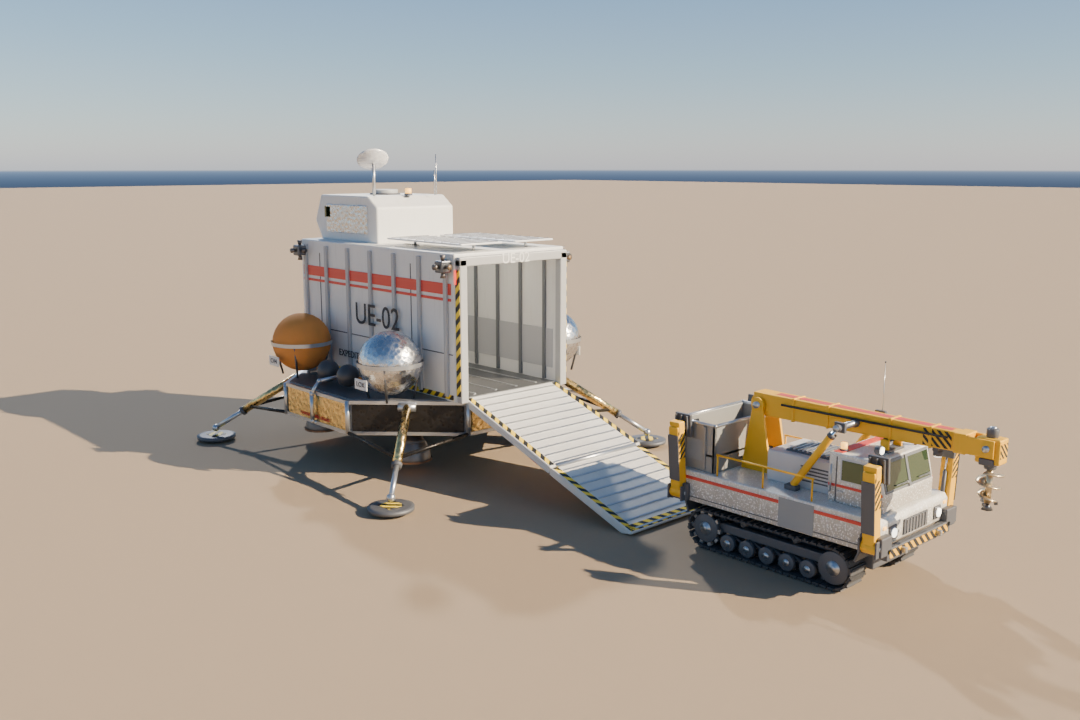
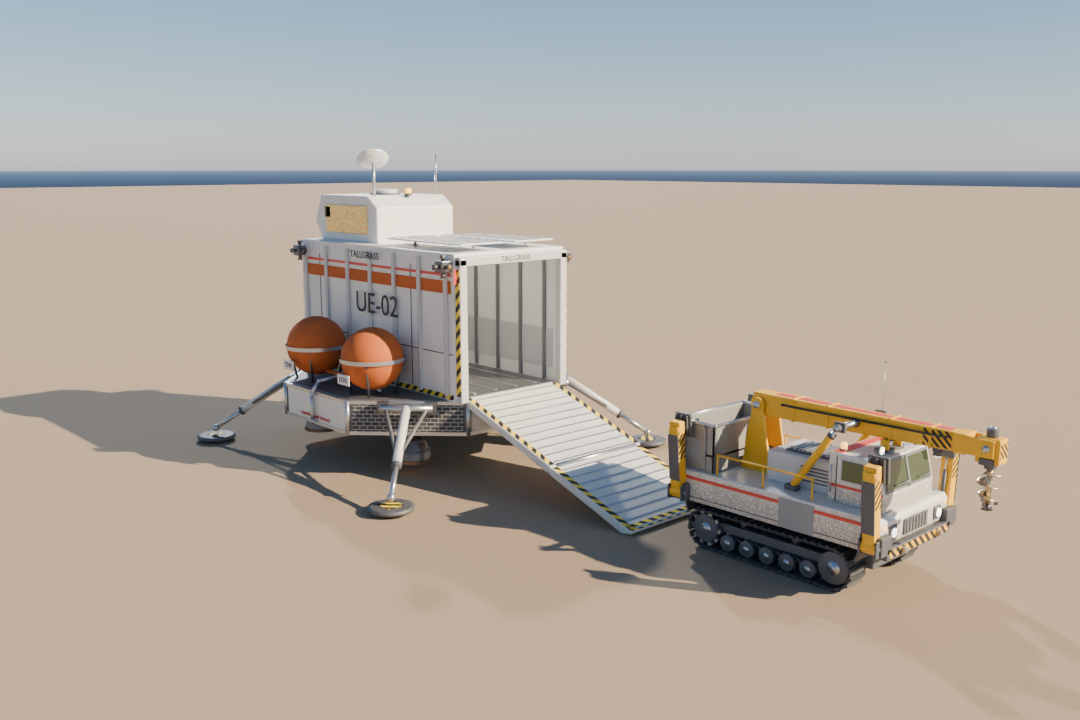
Pre-warp drop ship page: the owner's decision, new palette renders, flight + glb checks, questions answered

diff --git a/docs/mockups/prewarp-dropship/index.html b/docs/mockups/prewarp-dropship/index.html
@@ -83,22 +83,45 @@ ol.qs { margin: 0; padding-left: 22px; display: grid; gap: 12px; max-width: 80ch
 ol.qs li::marker { font: 700 16px var(--display); color: var(--accent); }
 ol.qs b { font-weight: 600; }
 footer { border-top: 1px solid var(--rule); padding-top: 20px; font-size: 14px; color: var(--dim); display: grid; gap: 6px; }
+.decided { border: 1px solid var(--good); background: var(--good-soft); border-radius: 8px; padding: 14px 16px; display: grid; gap: 10px; max-width: 86ch; }
+.decided h3 { color: var(--good); }
+.decided ul { margin: 0; padding-left: 18px; display: grid; gap: 6px; }
+.chip.ok { border-color: var(--good); color: var(--good); background: var(--good-soft); }
+ol.qs .ans { display: block; margin-top: 4px; color: var(--good); }
+ol.qs .ans::before { content: "Answered: "; font-weight: 600; }
+.quad { display: grid; grid-template-columns: minmax(0, 1fr) minmax(0, 1fr); gap: 12px; }
+@media (max-width: 760px) { .quad { grid-template-columns: minmax(0, 1fr); } }
 </style>
 
 <div class="wrap">
   <header>
-    <div class="eyebrow">Dawn of Warp · 2063–2150 · Mockup</div>
+    <div class="eyebrow">Dawn of Warp · 2063–2150 · Decided 2026-11-10</div>
     <h1>Pre-warp Drop Ship</h1>
     <blockquote>“On the pre-warp, the drop ships [shouldn't] have nacelles. Make them look less enterprise / warp era. Show me mockup.”</blockquote>
-    <p class="lede">Three original cargo landers for the human expedition from Earth: chemical rockets, fusion power on the ground, no shields or transporters, cranes and human crews. Each does Halyard 07's job (one mining crawler or rover per trip, ramp, four legs, rocket landing) with Earth-industrial looks: white and grey panels, orange foam insulation, gold and black foil blankets, exposed piping, stencilled hull text, yellow/black warning stripes and the player colour as the red band.</p>
-    <div class="chips"><span class="chip">A · Lander</span><span class="chip">B · Hopper</span><span class="chip">C · Freighter</span><span class="chip">Mockup only · no game changes yet</span></div>
+    <p class="lede">Three original cargo landers for the human expedition from Earth: chemical rockets, fusion power on the ground, no shields or transporters, cranes and human crews. Each does Halyard 07's job (one mining crawler or rover per trip, ramp, four legs, rocket landing). After the first round the owner picked the look: a white hull, the Space Shuttle external tank's rust orange as the main accent (tanks, foam, stripes), black thermal tiles where the heat is, light grey details, and the player colour as a thin line.</p>
+    <div class="chips"><span class="chip">A · Lander</span><span class="chip">B · Hopper</span><span class="chip">C · Freighter</span><span class="chip ok">Decided: a mix, random per orbiting ship</span><span class="chip ok">In the game</span></div>
   </header>
 
   <section>
-    <h2><span class="tag">Lineup</span> Today's Halyard and the three options</h2>
+    <h2><span class="tag">Decided</span> What the owner chose</h2>
+    <blockquote>“Go with a mix … random. Could be any of them per orbiting ship.” · “White, Space Shuttle red/orange, hull names random like before. Legs should fold.”</blockquote>
+    <div class="decided">
+      <h3>Built</h3>
+      <ul>
+        <li><b>All three ships, mixed:</b> in a Dawn of Warp match each player's orbiting ship carries one of A, B or C, picked at random per player from the map seed and the player's slot, so it stays the same for the whole game and after a reload. Every drop ship of that player uses it: vehicle deliveries, the three ships of the first landing and outpost drops. Other eras keep Halyard 07.</li>
+        <li><b>Colours:</b> white panels, rust orange (#C8632A family) on the tanks, foam lines and a broad stripe, black tiles under the engines, on B's skirt and nose cap and on C's belly and nose, light grey details. Gold foil stays only on A's engine mounts and cab blankets. The player colour is a thin “Owner” line.</li>
+        <li><b>Hull names random, like before:</b> every pre-warp ship draws a name from a list of 41 original Earth-expedition names (TALLGRASS, IRONWOOD, SOUTHWIND, BLUE HERON …) and a number like UE-14, per ship and never the same twice for a player. The achievement drop ship name still overrides it.</li>
+        <li><b>Legs fold:</b> A's legs fold 124° straight up beside its tanks (moved off the diagonals to make room), B's 130° straight up the barrel over dark leg wells, both with the pads turned flat, contact face out. C folds like Halyard.</li>
+        <li><b>A and B's two-piece ramps:</b> the tip unfolds after the main ramp and folds first when it closes; the unit drives the full length. B climbs out straight up instead of pitching over.</li>
+      </ul>
+    </div>
+  </section>
+
+  <section>
+    <h2><span class="tag">Lineup</span> Halyard and the three pre-warp ships</h2>
     <figure>
-      <img src="img/lineup.png" alt="Front three-quarter lineup on sand: Halyard 07 with its nacelle pods on the left, then the octagonal Lander A with orange and silver spherical tanks, the tall round Hopper B, and the low Freighter C with orange tanks on its back and four engine pods; a survey rover and the mining crawler stand between them for scale." width="1080" height="340" loading="lazy">
-      <figcaption><b>Left to right:</b> Halyard 07 (today, 12.6 long, 5.6 high), A Lander, B Hopper, C Freighter. A Mk II rover and the mining crawler for scale.</figcaption>
+      <img src="img/lineup.png" alt="Front three-quarter lineup on sand: Halyard 07 with its nacelle pods on the left, then the octagonal white Lander A with four orange spherical tanks, the tall white and orange Hopper B, and the low white Freighter C with orange tanks on its back and four engine pods; a survey rover and the mining crawler stand between them for scale." width="1080" height="340" loading="lazy">
+      <figcaption><b>Left to right:</b> Halyard 07 (every other era, 12.6 long, 5.6 high), A Lander, B Hopper, C Freighter. A Mk II rover and the mining crawler for scale.</figcaption>
     </figure>
     <figure>
       <img src="img/lineup-game.png" alt="The same four ships seen from above at the game's landing camera angle, each centred on a planet hex: Halyard, A, B, C from left to right." width="960" height="360" loading="lazy">
@@ -106,14 +129,14 @@ footer { border-top: 1px solid var(--rule); padding-top: 20px; font-size: 14px; 
     </figure>
     <figure>
       <img class="native" src="img/lineup-game-1x.png" alt="The landing-camera lineup at the size it appears in the game at 1280 by 720: the ships are small but each silhouette still differs." width="545" height="204" loading="lazy">
-      <figcaption><b>Actual size</b> at 1280×720 (camera FOV 45°): a ship is about 60 px long. Halyard reads by its blue strips, A by its box and four tank dots, B as a white disc, C by its two orange tanks.</figcaption>
+      <figcaption><b>Actual size</b> at 1280×720 (camera FOV 45°): a ship is about 60 px long. Halyard reads by its blue strips, A by its box and four orange tank dots, B as a white disc ringed in orange, C by its two orange tanks.</figcaption>
     </figure>
   </section>
 
   <!-- ---------------------------------------------------------------- A -->
   <section class="opt" id="a">
-    <h2><span class="tag">A</span> Lander <small>“Expedition Carrier 2” · UE-02</small></h2>
-    <p class="pitch">A squat descent stage in gold and black foil carries four exposed spherical tanks (orange-foam methane, silver oxygen), a boxy pressurised cargo module and a faceted two-window crew cab. Four splayed truss legs with dish pads, an engine bell under each corner, RCS quads on the module corners and a folding two-piece ramp: Apollo descent stage meets a modern heavy cargo lander.</p>
+    <h2><span class="tag">A</span> Lander <small>sample hull TALLGRASS · UE-02</small></h2>
+    <p class="pitch">A squat octagonal descent stage, white panels with black-tile bays over the four corner engines, carries four orange-foam spherical tanks on its side strips, a boxy white cargo module with an orange stripe and a faceted two-window crew cab. Four A-frame legs with dish pads, RCS quads on the module corners and a folding two-piece ramp: Apollo descent stage meets a modern heavy cargo lander.</p>
     <div class="shots">
       <figure>
         <img src="img/a-hero.png" alt="Lander A landed with its two-piece ramp unfolded to the ground and the mining crawler driven off the end." width="1080" height="720" loading="lazy">
@@ -130,37 +153,49 @@ footer { border-top: 1px solid var(--rule); padding-top: 20px; font-size: 14px; 
         </figure>
       </div>
     </div>
+    <div class="quad">
+      <figure>
+        <img src="img/a-flight.png" alt="Lander A in flight with its four legs folded straight up beside the tanks, pads standing flat." width="720" height="480" loading="lazy">
+        <figcaption><b>Legs folded</b> (the climb-out): 123.6° straight up beside the tanks, pads turned flat.</figcaption>
+      </figure>
+      <figure>
+        <img src="img/a-glb.png" alt="The exported game model of Lander A twice: landed with the ramp and its tip opened through the model's own pivots, and hovering with the legs folded." width="720" height="480" loading="lazy">
+        <figcaption><b>The game glb</b> posed through its own pivots: ramp 109.6° + tip 180°, and legs folded.</figcaption>
+      </figure>
+    </div>
     <div class="cards">
       <div class="card">
-        <h3>Spec</h3>
+        <h3>Spec (in the game)</h3>
         <dl class="spec">
           <dt>Size</dt><dd>8.4 across the stage, 11.8 over the pads, 8.0 to the cab roof (9.6 to the antennas)</dd>
-          <dt>Bay</dt><dd>3.6 wide × ~7.5 long × 3.8 high, deck 2.4 up</dd>
-          <dt>Ramp</dt><dd>two pieces, 3.75 + 3.1, toe on the ground at the game's 109.6°</dd>
-          <dt>Engines</dt><dd>4 bells under the corners (exit 0.44 above ground), RCS on the module corners</dd>
+          <dt>Bay</dt><dd>3.6 wide × ~7.5 long × 3.8 high, deck 2.43 up</dd>
+          <dt>Ramp</dt><dd>hinge (0, 2.43, 4.1); 3.75 + tip 3.08 at 109.6°, toe 10.53 aft</dd>
+          <dt>Legs</dt><dd>pads (±5.02, ±5.02); fold 123.6°, pads turn back 33.6°</dd>
+          <dt>Engines</dt><dd>4 bells (exit 0.44 up, r 0.55) at (±2.51, ±2.51), RCS quads on the module corners</dd>
+          <dt>Game glb</dt><dd>dropship_prewarp_a.glb · 35 nodes · 42.8k tris · 2.9 MB</dd>
         </dl>
       </div>
       <div class="card pro">
         <h3>For the game</h3>
         <ul>
-          <li>Says “space age, Earth” at a glance: gold foil, spherical tanks, Apollo legs. Nothing about it is Starfleet.</li>
-          <li>Four corner bells are exactly what <code>RocketPlume</code> already draws: four flames, one per corner.</li>
+          <li>Says “space age, Earth” at a glance: spherical tanks, Apollo legs. Nothing about it is Starfleet.</li>
+          <li>Four corner bells are exactly what <code>RocketPlume</code> draws: four flames, one per corner.</li>
           <li>Feels right for the colony landing: lowered on its plumes, crews and cranes unload it.</li>
         </ul>
       </div>
       <div class="card con">
-        <h3>Watch out</h3>
+        <h3>Watch out (resolved)</h3>
         <ul>
-          <li>From above it is a white box with dots: close to a prefab building at a glance (the tanks and the hex of legs help).</li>
-          <li>The deck is 2.4 up, so the ramp has to fold out in two pieces: a new <code>RampTip</code> step in <code>DropShipView</code>, and the drive-off path gets twice as long.</li>
-          <li>Apollo legs never retract; folding them (the game folds every leg) looks odd on this shape. Better: no fold for A.</li>
+          <li>From above it is a white box with dots: the four orange tanks and the stripe now set it apart from the white buildings.</li>
+          <li>The two-piece ramp got its <code>RampTip</code> step in <code>DropShipView</code>: the tip unfolds after the main ramp, the drive-off runs its full length (~+1 s).</li>
+          <li>Apollo legs never retract: rebuilt as A-frames that swing as one piece, with the tanks moved clear of the diagonals, so they fold cleanly.</li>
         </ul>
       </div>
       <div class="card need">
         <h3>Crawler fit</h3>
         <ul>
           <li>Crawler 5.6 × 2.7 × 3.1 fits with 0.45 each side and 0.7 headroom.</li>
-          <li>The drive down is ~7 long at 19.6°, from 2.4 up: a slightly slower unload (about +1 s).</li>
+          <li>The drive down is ~7 long at 19.6°, from 2.43 up.</li>
         </ul>
       </div>
     </div>
@@ -168,8 +203,8 @@ footer { border-top: 1px solid var(--rule); padding-top: 20px; font-size: 14px; 
 
   <!-- ---------------------------------------------------------------- B -->
   <section class="opt" id="b">
-    <h2><span class="tag">B</span> Hopper <small>“Surface Lifter 5” · UE-05</small></h2>
-    <p class="pitch">An upright reusable rocket lander, 7.2 wide and 13.3 tall: a stainless cargo barrel over a dark tiled skirt, a white tank section with a row of crew windows, grid fins and a blunt nose. Four carbon legs deploy from the base, a cluster of four engines sits under the heat shield, and a square door housing on one side drops a two-piece ramp to the ground.</p>
+    <h2><span class="tag">B</span> Hopper <small>sample hull SOUTHWIND · UE-05</small></h2>
+    <p class="pitch">An upright reusable rocket lander, 7.2 wide and 13.3 tall: a white cargo barrel over a black tiled skirt, an orange tank section with the thin player-colour line under it, a white crew level with a row of windows, grid fins and a black-tiled nose cap. Four carbon A-frame legs hinge low on the skirt, a cluster of four engines sits under the heat shield, and a square door housing on one side drops a two-piece ramp to the ground.</p>
     <div class="shots">
       <figure>
         <img src="img/b-hero.png" alt="Hopper B landed, its side door open as a long ramp, the mining crawler on the ground beyond it." width="1080" height="720" loading="lazy">
@@ -177,8 +212,8 @@ footer { border-top: 1px solid var(--rule); padding-top: 20px; font-size: 14px; 
       </figure>
       <div class="side">
         <figure>
-          <img src="img/b-game.png" alt="Hopper B from the game camera: mostly its white domed top and the door housing." width="720" height="480" loading="lazy">
-          <figcaption><b>Game camera:</b> the dome dominates.</figcaption>
+          <img src="img/b-game.png" alt="Hopper B from the game camera: its white domed top ringed in orange and the door housing." width="720" height="480" loading="lazy">
+          <figcaption><b>Game camera:</b> the dome dominates; the orange band reads.</figcaption>
         </figure>
         <figure>
           <img src="img/b-descent.png" alt="Hopper B descending on a single merged column of flame from its four clustered engines." width="720" height="480" loading="lazy">
@@ -186,14 +221,27 @@ footer { border-top: 1px solid var(--rule); padding-top: 20px; font-size: 14px; 
         </figure>
       </div>
     </div>
+    <div class="quad">
+      <figure>
+        <img src="img/b-flight.png" alt="Hopper B in flight with its legs folded flat up the barrel over dark leg wells." width="720" height="480" loading="lazy">
+        <figcaption><b>Legs folded:</b> 129.8° straight up the barrel, pads flat against it.</figcaption>
+      </figure>
+      <figure>
+        <img src="img/b-glb.png" alt="The exported game model of Hopper B twice: landed with its door ramp and tip open, and hovering with the legs folded." width="720" height="480" loading="lazy">
+        <figcaption><b>The game glb</b> posed through its own pivots.</figcaption>
+      </figure>
+    </div>
     <div class="cards">
       <div class="card">
-        <h3>Spec</h3>
+        <h3>Spec (in the game)</h3>
         <dl class="spec">
           <dt>Size</dt><dd>7.2 wide, 11.0 over the pads, 13.3 high (14 to the antennas)</dd>
-          <dt>Bay</dt><dd>3.6 wide × 6.7 deep × 3.9 high, floor 2.6 up</dd>
-          <dt>Ramp</dt><dd>the door: two pieces, 3.8 + 3.5, toe on the ground at 109.6°</dd>
-          <dt>Engines</dt><dd>4 bells in a cluster under the base, RCS quads high on the barrel (aft pair either side of the door)</dd>
+          <dt>Bay</dt><dd>3.6 wide × 6.7 deep × 3.9 high, floor 2.58 up</dd>
+          <dt>Ramp</dt><dd>hinge (0, 2.58, 3.98); the door 3.82 + tip 3.47 at 109.6°, toe 10.85 aft</dd>
+          <dt>Legs</dt><dd>pads (±4.49, ±4.49); fold 129.8°, pads turn back 39.8°</dd>
+          <dt>Engines</dt><dd>4 bells in a cluster (exit 0.73 up, r 0.62), RCS quads high on the barrel</dd>
+          <dt>Climb</dt><dd>straight up (no pitch-over, no aft thrusters)</dd>
+          <dt>Game glb</dt><dd>dropship_prewarp_b.glb · 35 nodes · 33.4k tris · 2.6 MB</dd>
         </dl>
       </div>
       <div class="card pro">
@@ -207,11 +255,9 @@ footer { border-top: 1px solid var(--rule); padding-top: 20px; font-size: 14px; 
       <div class="card con">
         <h3>Watch out</h3>
         <ul>
-          <li>From the 55° camera it is a white disc: you see the dome, not which way the door faces.</li>
-          <li>13–14 tall: towers over the Level 1 outpost and may clip the camera at the closest zoom.</li>
-          <li>The climb-out pitches over toward the nose (made for a horizontal ship): needs a straight climb for B.</li>
-          <li>The game's 90° leg fold leaves these legs sticking out at ~45°; B wants ~130° (a per-model angle).</li>
-          <li>Same <code>RampTip</code> step as A.</li>
+          <li>From the 55° camera it is a white disc ringed in orange: you see the dome, not which way the door faces.</li>
+          <li>13–14 tall: towers over the Level 1 outpost and may clip the camera at the closest zoom (check in Godot).</li>
+          <li>Resolved: B climbs straight up, its legs fold ~130° (a per-model angle), and its door ramp has the <code>RampTip</code> step.</li>
         </ul>
       </div>
       <div class="card need">
@@ -226,8 +272,8 @@ footer { border-top: 1px solid var(--rule); padding-top: 20px; font-size: 14px; 
 
   <!-- ---------------------------------------------------------------- C -->
   <section class="opt" id="c">
-    <h2><span class="tag">C</span> Freighter <small>“Cargo Hauler 7” · UE-07</small></h2>
-    <p class="pitch">A horizontal lifting-body cargo hauler of the early 22nd century: blunt tiled nose, ceramic-tile belly, two orange foam tanks strapped along its back and Halyard's rear ramp. Its four vertical landing engines hang exposed on outrigger beams at the corners (chamber, turbopump, bell, gimbal struts) instead of nacelles; utilitarian panels and stencils, no fins.</p>
+    <h2><span class="tag">C</span> Freighter <small>sample hull IRONWOOD · UE-07</small></h2>
+    <p class="pitch">A horizontal lifting-body cargo hauler of the early 22nd century: white hull, black-tiled nose and belly, an orange flash along the flanks over the thin player-colour line, two orange foam tanks strapped along its back and Halyard's rear ramp. Its four vertical landing engines hang exposed on outrigger beams at the corners (chamber, turbopump, bell, gimbal struts) instead of nacelles; utilitarian panels and stencils, no fins.</p>
     <div class="shots">
       <figure>
         <img src="img/c-hero.png" alt="Freighter C landed with its rear ramp down and the mining crawler driven off; engine pods hang from beams at each corner." width="1080" height="720" loading="lazy">
@@ -244,20 +290,32 @@ footer { border-top: 1px solid var(--rule); padding-top: 20px; font-size: 14px; 
         </figure>
       </div>
     </div>
+    <div class="quad">
+      <figure>
+        <img src="img/c-flight.png" alt="Freighter C in flight with its legs folded fore and aft under the outriggers." width="720" height="480" loading="lazy">
+        <figcaption><b>Legs folded</b> as Halyard's: front ones aft, rear ones forward, 90°, pads level.</figcaption>
+      </figure>
+      <figure>
+        <img src="img/c-glb.png" alt="The exported game model of Freighter C twice: landed with its rear ramp open, and hovering with the legs folded." width="720" height="480" loading="lazy">
+        <figcaption><b>The game glb</b> posed through its own pivots.</figcaption>
+      </figure>
+    </div>
     <div class="cards">
       <div class="card">
-        <h3>Spec</h3>
+        <h3>Spec (in the game)</h3>
         <dl class="spec">
           <dt>Size</dt><dd>13.7 long, 12.5 over the engine pods, 6.2 high</dd>
           <dt>Bay</dt><dd>3.6 wide × 8.0 long × 3.35 high, floor 1.25 up (Halyard's)</dd>
-          <dt>Ramp</dt><dd>one piece, 3.32, opens 109.6° (Halyard's numbers)</dd>
-          <dt>Engines</dt><dd>4 bells in exposed pods at the corners, RCS quads at the nose and the aft corners</dd>
+          <dt>Ramp</dt><dd>hinge (0, 1.25, 6.4); one piece, 3.32 at 109.6°, toe 9.53 aft</dd>
+          <dt>Legs</dt><dd>pads (±5.65, -3.5 / 4.55); fold 90° like Halyard</dd>
+          <dt>Engines</dt><dd>4 bells in exposed pods at (±4.15, -3.5 / 4.55), exit 1.25 up, r 0.66; RCS quads at the nose and aft corners</dd>
+          <dt>Game glb</dt><dd>dropship_prewarp_c.glb · 33 nodes · 38.4k tris · 2.7 MB</dd>
         </dl>
       </div>
       <div class="card pro">
         <h3>For the game</h3>
         <ul>
-          <li>Drops straight in: same ramp hinge, length and angle, same leg rests and folds, same bay. Only the glb changes.</li>
+          <li>Almost a glb swap: Halyard's ramp length, angle, leg folds and bay; only the hinge, pads and footprint move.</li>
           <li>Readable from above: two orange tanks and four pods make a clear “H” that no building has, and the ramp end is obvious.</li>
           <li>Plumes come from the four corners, wide apart: the landing looks stable and reads as rockets.</li>
         </ul>
@@ -266,15 +324,15 @@ footer { border-top: 1px solid var(--rule); padding-top: 20px; font-size: 14px; 
         <h3>Watch out</h3>
         <ul>
           <li>Same layout as Halyard (box fuselage, rear ramp), so it's the least different of the three.</li>
-          <li>The exposed engines are detailed: the joined game glb will be heavier than Halyard's (~35 nodes) unless they are simplified.</li>
-          <li>Engine pods widen the footprint to 12.5: the landing-spot search (11 from buildings) may need +1.</li>
+          <li>The exposed engines are detailed, but the joined game glb came out at 33 nodes, like Halyard.</li>
+          <li>Engine pods widen the footprint to 12.5: the landing-spot search uses C's own footprint points.</li>
         </ul>
       </div>
       <div class="card need">
         <h3>Crawler fit</h3>
         <ul>
           <li>Halyard's bay with 0.8 more length: the crawler fits with 0.45 each side and 0.25 headroom, like today.</li>
-          <li>Unload timing and path unchanged.</li>
+          <li>Unload timing and path as Halyard's.</li>
         </ul>
       </div>
     </div>
@@ -284,31 +342,31 @@ footer { border-top: 1px solid var(--rule); padding-top: 20px; font-size: 14px; 
     <h2><span class="tag">Side by side</span></h2>
     <div class="table">
       <table>
-        <thead><tr><th>Option</th><th>Footprint × height</th><th>Bay (w × l × h)</th><th>Ramp</th><th>Game changes</th><th>From the game camera</th></tr></thead>
+        <thead><tr><th>Option</th><th>Footprint × height</th><th>Bay (w × l × h)</th><th>Ramp</th><th>In the game</th><th>From the game camera</th></tr></thead>
         <tbody>
-          <tr><td>Halyard 07 (today)</td><td>12.6 × 9.4 × 5.6</td><td>3.6 × 7.2 × 3.35</td><td>1 piece, 109.6°</td><td>—</td><td>White box with blue nacelle strips</td></tr>
-          <tr><td>A Lander</td><td>11.8 × 11.8 × 8.0</td><td>3.6 × 7.5 × 3.8</td><td>2 pieces, 109.6°</td><td>Ramp tip unfold; no leg fold; longer unload path</td><td>White box, four tank dots, splayed legs</td></tr>
-          <tr><td>B Hopper</td><td>11.0 × 11.0 × 13.3</td><td>3.6 × 6.7 × 3.9</td><td>2 pieces, 109.6°</td><td>Ramp tip; straight climb; per-model leg fold angle</td><td>White disc</td></tr>
-          <tr><td>C Freighter</td><td>13.7 × 12.5 × 6.2</td><td>3.6 × 8.0 × 3.35</td><td>1 piece, 109.6°</td><td>None (glb swap)</td><td>Orange “H” of tanks and pods</td></tr>
+          <tr><td>Halyard 07</td><td>12.6 × 9.4 × 5.6</td><td>3.6 × 7.2 × 3.35</td><td>1 piece, 109.6°</td><td>Every era but Dawn of Warp (the default spec)</td><td>White box with blue nacelle strips</td></tr>
+          <tr><td>A Lander</td><td>11.8 × 11.8 × 8.0</td><td>3.6 × 7.5 × 3.8</td><td>2 pieces, 109.6°</td><td>Ramp tip unfold; legs fold 123.6°; longer unload path</td><td>White box, four orange tank dots, splayed legs</td></tr>
+          <tr><td>B Hopper</td><td>11.0 × 11.0 × 13.3</td><td>3.6 × 6.7 × 3.9</td><td>2 pieces, 109.6°</td><td>Ramp tip; straight climb; legs fold 129.8°</td><td>White disc ringed in orange</td></tr>
+          <tr><td>C Freighter</td><td>13.7 × 12.5 × 6.2</td><td>3.6 × 8.0 × 3.35</td><td>1 piece, 109.6°</td><td>Own hinge, pads and footprint; Halyard's folds</td><td>Orange “H” of tanks and pods</td></tr>
         </tbody>
       </table>
     </div>
-    <p class="muted">All three keep the game's part names (Ramp, Leg0–3, Foot0–3, Thruster0–5, BayLight, Beacon, decal markers) and drop the nacelle glows. Thruster0–3 are the glowing insides of the four bells, so the flames start at the bell exits; Thruster4/5 are the aft-facing nozzles of two RCS quads.</p>
+    <p class="muted">All three keep the game's part names (Ramp, RampTip on A and B, Leg0–3, Foot0–3, Thruster0–5, BayLight, Beacon, the name and number decal markers, the Owner material) and drop the nacelle glows. Thruster0–3 are the glowing insides of the four bells, so the flames start at the bell exits; Thruster4/5 are the aft-facing nozzles of two RCS quads. The game exports are joined like Halyard's (Body + RampBody (+ RampTipBody) + LegK/FootK bodies) with the procedural paint baked into one 2048² atlas each.</p>
   </section>
 
   <section class="opt">
-    <h2><span class="tag">Questions</span> for the owner</h2>
+    <h2><span class="tag">Questions</span> answered</h2>
     <ol class="qs">
-      <li><b>Which option?</b> A, B or C, or a mix (for example C's body with A's gold foil and spherical tanks, or A with a lower one-piece ramp).</li>
-      <li><b>Colours:</b> keep white/grey with orange foam, gold foil and the player colour as the red band? Or a plainer agency look (white with black tiles) where the player colour is the only accent?</li>
-      <li><b>One design for every pre-warp drop, or the convoy only?</b> The first landing (three ships bringing the Level 1 outpost) and single vehicle deliveries could share one lander, or the convoy could use a bigger one. Does the Earth supply ship (colonists and kits every ~15 min) land with the same lander?</li>
-      <li><b>Hull names:</b> stencilled names like “EXPEDITION CARRIER 2” with a number (UE-02), a pre-warp name list per player like today's HALYARD 07 / BOWLINE 12, or numbers only?</li>
-      <li><b>Legs:</b> should pre-warp landers fold their legs in flight (as Halyard does) or keep them out like Apollo?</li>
+      <li><b>Which option?</b> A, B or C, or a mix.<span class="ans">a mix: each player's orbiting ship gets one of the three at random (per game, from the map seed and the player's slot), and all of that player's drop ships use it.</span></li>
+      <li><b>Colours?</b><span class="ans">white, Space Shuttle red/orange as the main accent, black tiles where they make sense, light grey details; gold only as a small accent on A; the player colour a thin line.</span></li>
+      <li><b>One design for every pre-warp drop, or the convoy only?</b><span class="ans">one model per player for everything they land: deliveries, the first-landing convoy and outpost drops. (The Earth supply ship is still to come; it can reuse the same pick.)</span></li>
+      <li><b>Hull names?</b><span class="ans">random like before: a name from a pre-warp list and a UE-NN number per ship, never twice for a player.</span></li>
+      <li><b>Legs?</b><span class="ans">they fold: A 123.6° and B 129.8° straight up the hull with the pads turned flat, C 90° like Halyard.</span></li>
     </ol>
   </section>
 
   <footer>
-    <p>Built by <code>blender/build_dropship_prewarp.py</code> (bpy 5, procedural materials, no bake). Full run: 9 option renders + 2 lineups at 1080×720, 40 Cycles samples, about 6 minutes on 4 cores (about 30 s a render). Renders in <code>blender/previews/dropship_prewarp/</code> with a contact sheet; today's Halyard renders in <code>blender/previews/dropship/</code>.</p>
-    <p>Mockup only: nothing in <code>game/</code> changes until an option is chosen.</p>
+    <p>Built by <code>blender/build_dropship_prewarp.py</code> (bpy 5, procedural materials). Previews: <code>--preview blender/previews/dropship_prewarp</code> renders hero, game camera, descent, flight (legs folded) and the glb check per option plus both lineups at 1080×720, 32 Cycles samples, about 10 minutes on 4 cores; <code>--sheet</code> folds them into a contact sheet. Game models: <code>--game</code> writes <code>game/models/vehicles/dropship_prewarp_a/b/c.glb</code> (about 30 s each: joined, paint baked).</p>
+    <p>This page is the record of the decision; the game side is <code>game/scripts/DropShipSpec.cs</code> (each model's numbers) and <code>DropShipHulls.cs</code> (the pick and the names).</p>
   </footer>
 </div>
